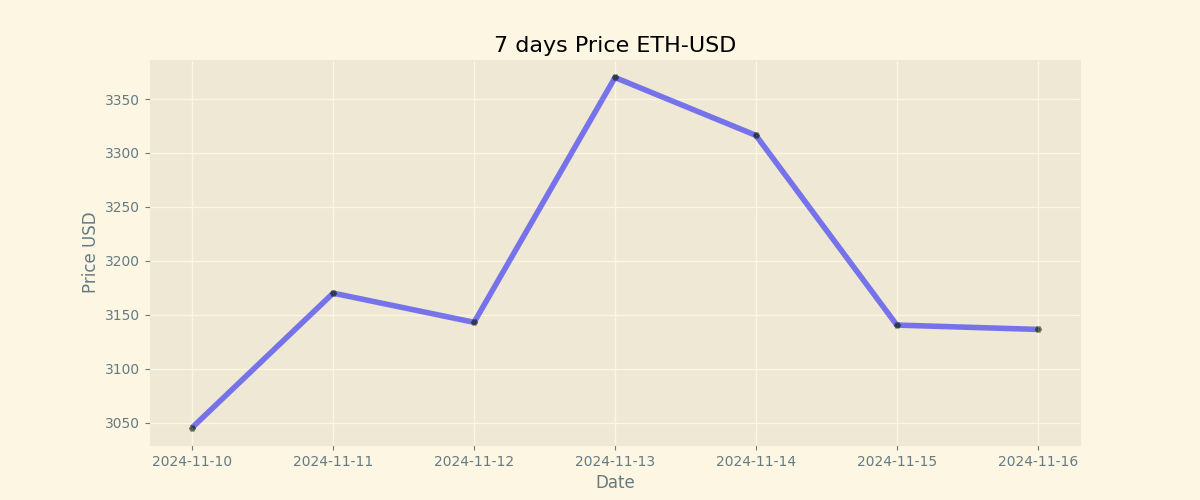
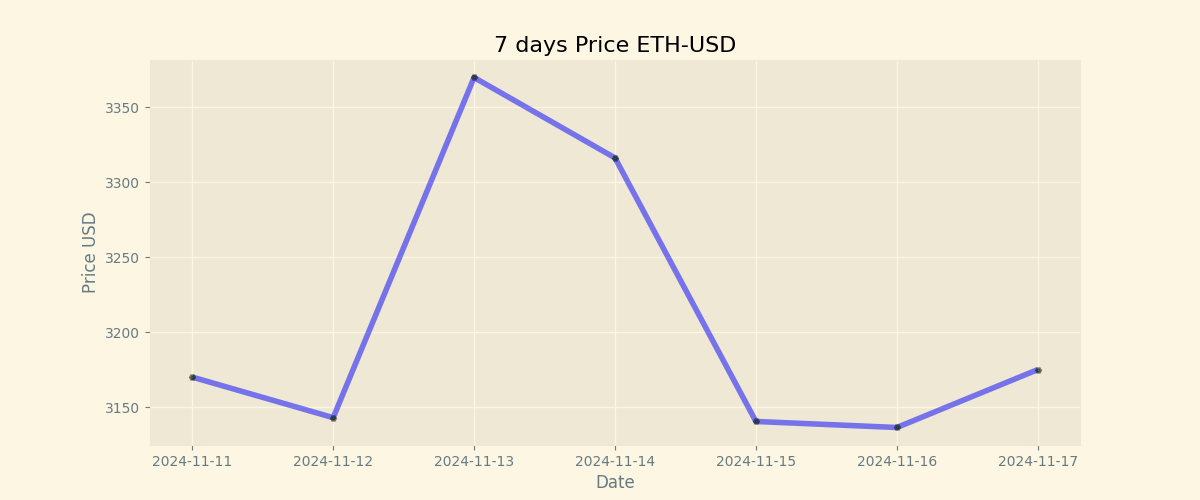
Duty Updates 2024-11-17

diff --git a/README.md b/README.md
@@ -9,8 +9,8 @@
 
 | Currency | Price           |
 | -------- | --------------- |
-| **BTC**  | **$ 88955.86** |
-| **ETH**  | **$ 3136.35** |
+| **BTC**  | **$ 88000.01** |
+| **ETH**  | **$ 3174.99** |
 
 ## BTC chart
 
